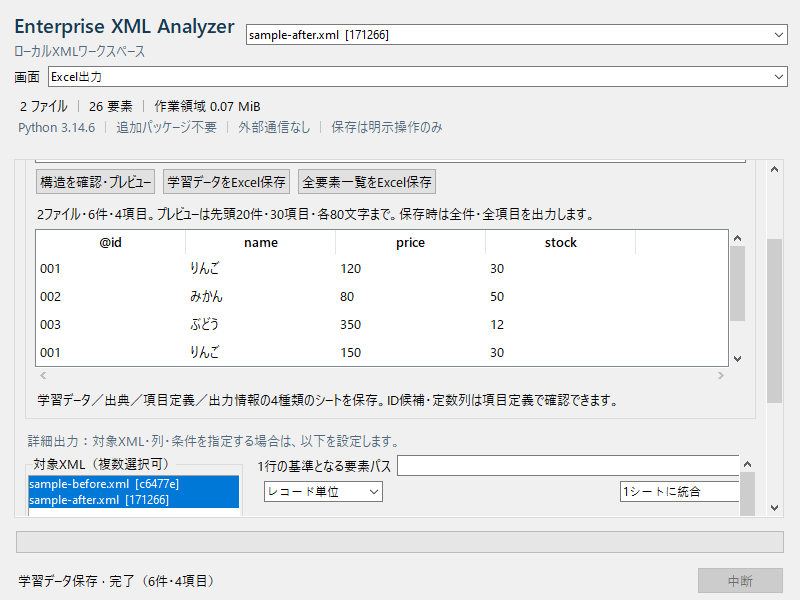
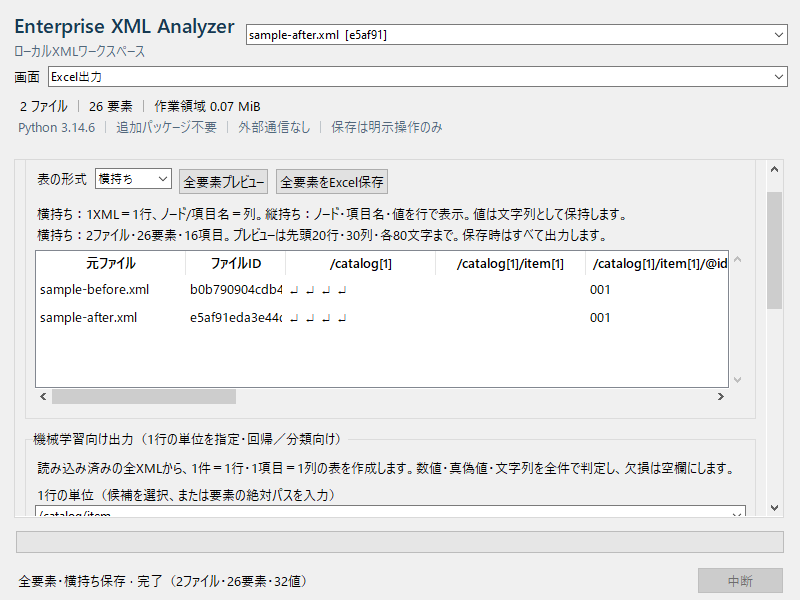
Document both complete XML layouts with Windows screenshots and verification

diff --git a/docs/python-user-guide/procedure-guide.html b/docs/python-user-guide/procedure-guide.html
@@ -15,7 +15,7 @@
   <a class="skip-link" href="#main-content">本文へ移動</a>
   <button id="toc-toggle" class="toc-toggle" type="button" aria-controls="sidebar" aria-expanded="false">☰ 目次</button>
   <aside id="sidebar" class="sidebar" aria-label="目次">
-    <div class="sidebar-header"><p class="eyebrow">Windows Desktop · v2.2</p><p class="sidebar-title">Enterprise XML<br>Analyzer</p><p class="sidebar-subtitle">スクリーンショット付き操作手順書</p></div>
+    <div class="sidebar-header"><p class="eyebrow">Windows Desktop · v2.3</p><p class="sidebar-title">Enterprise XML<br>Analyzer</p><p class="sidebar-subtitle">スクリーンショット付き操作手順書</p></div>
     <nav><ol class="toc-list">
       <li><a href="#overview">01 目的と対象</a></li><li><a href="#prepare">02 展開したフォルダの確認</a></li><li><a href="#workflow">03 全体の流れ・練習用XML</a></li><li><a href="#launch">04 アプリを起動する</a></li><li><a href="#load">05 XMLを読み込む</a></li><li><a href="#tree">06 構造・検索を確認する</a></li><li><a href="#graph">07 グラフで見る</a></li><li><a href="#compare">08 2つのXMLを比較する</a></li><li><a href="#export">09 Excelへ出力する</a></li><li><a href="#save">10 設定と作業を保存・終了する</a></li><li><a href="#verification">11 完了確認</a></li><li><a href="#troubleshooting">12 困ったとき</a></li>
     </ol></nav>
@@ -23,11 +23,11 @@
   </aside>
   <div id="sidebar-overlay" class="sidebar-overlay" aria-hidden="true"></div>
   <main id="main-content" class="main-content">
-    <header class="hero"><div class="hero-content"><p class="eyebrow">User Guide · Python 3.14.6 Bundled</p><h1>Enterprise XML Analyzer<br><span>Windows版 操作手順書</span></h1><p class="hero-lead">ZIPを展開したところから、XMLの確認・比較・Excel保存まで。画面と同じ練習用データを使って、一通りの操作を試せます。</p><div class="hero-badges"><span>対象: Windows x64配布版</span><span>Pythonの追加インストール不要</span><span>更新: 2026/10/27</span></div></div></header>
+    <header class="hero"><div class="hero-content"><p class="eyebrow">User Guide · Python 3.14.6 Bundled</p><h1>Enterprise XML Analyzer<br><span>Windows版 操作手順書</span></h1><p class="hero-lead">ZIPを展開したところから、XMLの確認・比較・Excel保存まで。画面と同じ練習用データを使って、一通りの操作を試せます。</p><div class="hero-badges"><span>対象: Windows x64配布版</span><span>Pythonの追加インストール不要</span><span>更新: 2026/10/28</span></div></div></header>
 
     <section id="overview" class="content-section"><div class="section-heading"><span class="section-number">01</span><div><p class="section-kicker">Overview</p><h2>目的と対象</h2></div></div>
       <p>このアプリは、XMLファイルの中身を階層やグラフで確認し、2つのXMLの違いを調べ、必要な項目をExcel・CSVへ取り出すためのデスクトップアプリです。XML原本を直接編集する機能はありません。</p>
-      <div class="card-grid three-columns"><article class="feature-card"><span class="card-label">見る</span><h3>構造・値・関連を確認</h3><p>ツリー、検索、グラフから必要な要素を探します。</p></article><article class="feature-card"><span class="card-label">比べる</span><h3>変更前後の違いを確認</h3><p>構造・値・完全比較を選び、変更箇所へ移動します。</p></article><article class="feature-card"><span class="card-label">取り出す</span><h3>必要な項目をExcelへ</h3><p>1行の単位を選び、列や型を設定して保存します。</p></article></div>
+      <div class="card-grid three-columns"><article class="feature-card"><span class="card-label">見る</span><h3>構造・値・関連を確認</h3><p>ツリー、検索、グラフから必要な要素を探します。</p></article><article class="feature-card"><span class="card-label">比べる</span><h3>変更前後の違いを確認</h3><p>構造・値・完全比較を選び、変更箇所へ移動します。</p></article><article class="feature-card"><span class="card-label">取り出す</span><h3>すべての項目をExcelへ</h3><p>縦持ち・横持ちを選び、全要素と属性を保存します。</p></article></div>
       <p class="small-note">画面はWindows Server 2022 x64・Python 3.14.6・Tk 8.6.15でアプリを実行して撮影しました。Windows 11／Server 2019は想定対象ですが、会社環境での受入確認は未実施です。画面の配色や文字の大きさはPCの設定で変わります。画像をクリックすると拡大できます。</p>
     </section>
 
@@ -45,7 +45,7 @@
     </section>
 
     <section id="workflow" class="content-section"><div class="section-heading"><span class="section-number">03</span><div><p class="section-kicker">Workflow</p><h2>全体の流れ・練習用XML</h2></div></div>
-      <div class="workflow"><div class="workflow-step"><span>1</span><strong>起動</strong><small>EXEを開く</small></div><div class="workflow-arrow" aria-hidden="true">→</div><div class="workflow-step"><span>2</span><strong>読込</strong><small>XMLを選ぶ</small></div><div class="workflow-arrow" aria-hidden="true">→</div><div class="workflow-step"><span>3</span><strong>確認・比較</strong><small>構造や差分を見る</small></div><div class="workflow-arrow" aria-hidden="true">→</div><div class="workflow-step"><span>4</span><strong>Excel保存</strong><small>列を選んで出力</small></div><div class="workflow-arrow" aria-hidden="true">→</div><div class="workflow-step"><span>5</span><strong>終了</strong><small>必要な作業を保存</small></div></div>
+      <div class="workflow"><div class="workflow-step"><span>1</span><strong>起動</strong><small>EXEを開く</small></div><div class="workflow-arrow" aria-hidden="true">→</div><div class="workflow-step"><span>2</span><strong>読込</strong><small>XMLを選ぶ</small></div><div class="workflow-arrow" aria-hidden="true">→</div><div class="workflow-step"><span>3</span><strong>確認・比較</strong><small>構造や差分を見る</small></div><div class="workflow-arrow" aria-hidden="true">→</div><div class="workflow-step"><span>4</span><strong>Excel保存</strong><small>縦持ち・横持ちを選ぶ</small></div><div class="workflow-arrow" aria-hidden="true">→</div><div class="workflow-step"><span>5</span><strong>終了</strong><small>必要な作業を保存</small></div></div>
       <p>練習用XMLは架空の商品3件です。次の2ファイルを同じフォルダに保存してください。手元のXMLでも操作できますが、表示される要素名や件数は変わります。</p>
       <div class="download-row"><a class="download-link" href="samples/sample-before.xml" download="sample-before.xml">変更前XMLを保存</a><a class="download-link" href="samples/sample-after.xml" download="sample-after.xml">変更後XMLを保存</a></div>
       <p>ブラウザでXMLが開いた場合は、リンクを右クリックして「名前を付けてリンク先を保存」などを選び、拡張子を <code>.xml</code> にします。</p>
@@ -56,7 +56,7 @@
       <ol class="numbered-steps"><li><div><strong><code>EnterpriseXmlAnalyzer.exe</code> をダブルクリックします。</strong><p>展開したフォルダ内のEXEを実行します。通常、管理者として実行する必要はありません。</p></div></li><li><div><strong>タイトルと「XML読込」画面を確認します。</strong><p>「XML読込」「構造ビュー」「グラフ」「XML比較」「Excel出力」「統計」「設定」の7画面があります。ウインドウは最小640×480まで変更でき、幅が狭い場合は上部の「画面」で切り替えます。ボタンは折り返し、縦横のスクロールで操作できます。処理の状況と「中断」ボタンは画面下部にあります。</p></div></li></ol>
       <figure class="screenshot"><button class="shot-zoom" type="button" aria-label="起動直後の画面を拡大"><img src="images/01-start.png" alt="起動直後。XML読込タブにXMLファイルを選択ボタンと空の一覧が表示されている。" width="984" height="688"></button><figcaption>画面1｜起動直後。まず「XMLファイルを選択」を使います。</figcaption></figure>
       <p class="small-note">未署名EXEのためWindowsや会社の管理機能が起動を止める場合があります。会社の実行ルールに従って配布担当者へ確認してください。セキュリティ機能を無効にして実行しないでください。</p>
-      <figure class="screenshot"><button class="shot-zoom" type="button" aria-label="小さなウインドウでの操作画面を拡大"><img src="images/12-resize.png" alt="800×600のウインドウ。上部の画面選択、学習データの保存ボタン、プレビューと縦横のスクロールが表示される。" width="800" height="600" loading="lazy"></button><figcaption>サイズ変更｜幅が狭いときは上部の「画面」で切り替えます。右端の縦スクロールで上へ戻すと1行の単位・目的変数を変更できます。</figcaption></figure>
+      <figure class="screenshot"><button class="shot-zoom" type="button" aria-label="小さなウインドウでの操作画面を拡大"><img src="images/12-resize.png" alt="800×600のウインドウ。上部の画面選択、全要素の保存ボタン、形式選択とプレビューが表示される。" width="800" height="600" loading="lazy"></button><figcaption>サイズ変更｜幅が狭いときは上部の「画面」で切り替えます。簡単出力の形式を選んで保存できます。他の出力方法は右端の縦スクロールで下へ移動します。</figcaption></figure>
     </section>
 
     <section id="load" class="content-section"><div class="section-heading"><span class="section-number">05</span><div><p class="section-kicker">Import</p><h2>XMLを読み込む</h2></div></div>
@@ -87,17 +87,24 @@
       <p class="small-note">分類は「追加・削除・変更・移動・変更なし・曖昧」です。「曖昧」は同じキーの重複などで対応を一意に決められない箇所です。親をまたぐ移動は追加・削除として扱います。「空白を除いて比較」「コメントを含む」などの設定は目的に合わせ、比較条件も記録してください。</p>
     </section>
 
-    <section id="export" class="content-section"><div class="section-heading"><span class="section-number">09</span><div><p class="section-kicker">Excel Export</p><h2>必要な項目をExcelへ出力する</h2></div></div>
-      <h3 id="simple-export">回帰・分類用の表を作る：簡単出力モード</h3>
+    <section id="export" class="content-section"><div class="section-heading"><span class="section-number">09</span><div><p class="section-kicker">Excel Export</p><h2>すべての要素をExcelへ出力する</h2></div></div>
+      <h3 id="simple-export">簡単出力：縦持ち・横持ちを選んで全件保存</h3>
+      <ol class="numbered-steps"><li><div><strong>XMLを読み込み、「Excel出力」を開きます。</strong><p>最上部の「簡単出力モード（すべての要素・属性）」を使います。読み込み済みの全XML・全階層が対象です。選択中のノード、下の機械学習向け設定や詳細出力の条件では絞りません。</p></div></li><li><div><strong>「表の形式」で「横持ち」または「縦持ち」を選びます。</strong><p>横持ちは1XMLファイルが1行で、ノード/項目名が列になります。縦持ちはノード・項目名・値を行で並べる一覧です。読み込み直さず切り替えられます。</p></div></li><li><div><strong>「全要素プレビュー」で確認します。</strong><p>表示は先頭20行・30列・各80文字までですが、保存は全件です。練習用2ファイルは26要素と6属性を含み、横持ちは2行・16項目（元ファイル等を除く）、縦持ちは32行です。</p></div></li><li><div><strong>「全要素をExcel保存」を押し、保存先を指定します。</strong><p>例：横持ちは <code>xml-all-wide.xlsx</code>、縦持ちは <code>xml-all-long.xlsx</code>。画面下部の「全要素・横持ち保存 · 完了」等を確認し、保存先のExcelファイルを開きます。</p></div></li></ol>
+      <div class="table-wrap"><table><caption>同じXMLの値を2つの表にする例（元ファイル等は省略）</caption><thead><tr><th>形式</th><th>ノード・項目の表示</th><th>値</th></tr></thead><tbody><tr><td>横持ち</td><td><code>/測定[1]/温度[1]</code> 列、<code>/測定[1]/圧力[1]</code> 列</td><td>同じXMLの行に「20」「5」をそれぞれ保存</td></tr><tr><td>縦持ち</td><td>ノード <code>/測定[1]</code>、項目名 <code>温度[1]</code> または <code>圧力[1]</code></td><td>温度の行に「20」、圧力の行に「5」を保存</td></tr></tbody></table></div>
+      <figure class="screenshot"><button class="shot-zoom" type="button" aria-label="横持ちの簡単出力画面を拡大"><img src="images/11-simple-export.png" alt="簡単出力の形式が横持ちで、2ファイル・26要素・16項目を確認し、XMLごとの行に全値を保存する。" width="984" height="688" loading="lazy"></button><figcaption>横持ち｜1XML＝1行。「ノード/項目名」の列を横へ展開します。表の下の横スクロールで続きの列を確認できます。</figcaption></figure>
+      <figure class="screenshot"><button class="shot-zoom" type="button" aria-label="縦持ちの簡単出力画面を拡大"><img src="images/13-long-export.png" alt="簡単出力の形式が縦持ちで、元ファイル・ノード・項目名・値・種類を行に並べたプレビュー。" width="984" height="688" loading="lazy"></button><figcaption>縦持ち｜親要素の直接テキスト、属性、子の値をそれぞれ行にします。親にも直接テキストを出力し、空要素の値は空欄です。</figcaption></figure>
+      <p>全階層の親・空要素・繰り返しを含み、属性は <code>@属性名</code>、繰り返しは <code>[1]</code>、<code>[2]</code> で区別します。同じ名前でも名前空間のURIが異なる項目は別に保存します。親の値は直接テキストで、子の値は子の項目に保存します。XMLとして解析した値を使い、コメント・処理命令・名前空間宣言そのものは値に含みません。</p>
+      <p>簡単出力の値は数値も文字列として保持し、先頭ゼロ・大きな数・空白・数式のように見える文字列を残します。横持ちは「項目一覧・出典・出力情報」、縦持ちは「出典・出力情報」も保存します。項目一覧で完全なノード・項目名と、データシート・Excel列の対応を確認できます。</p>
+      <p class="small-note">横持ちは元ファイル等2列に加えて16382項目ごとに別シートへ分けます。長い値は32767 UTF-16単位で継続列／継続行へ分割し、値分割番号の順に連結できます。長い列名は項目番号に短縮し、完全な名前は項目一覧へ記載します。長いノード・パスは表示分割番号順に復元できます。全シート合計200万データ行・512シートが上限で、超過・中断・失敗時は既存の保存先を保持します。</p>
+      <h3>回帰・分類用に1行の単位を指定する場合：機械学習向け出力</h3>
+      <p>全要素表とは別に、商品1件などの繰り返し要素を1行にする表も作れます。「簡単出力」の下へスクロールし、「機械学習向け出力」を使います。この方式は指定した要素の内側が対象です。</p>
       <ol class="numbered-steps"><li><div><strong>XMLを読み込み、「Excel出力」を開きます。</strong><p>一覧の全XMLが対象です。詳細出力の列・条件・対象選択とは独立しています。</p></div></li><li><div><strong>「構造を確認・プレビュー」を押し、1行の単位を確認します。</strong><p>全XMLで共通する最も浅い繰り返し要素を自動候補にします。練習用は <code>/catalog/item</code> で、商品1件が1行です。候補を選ぶか要素の絶対パスを入力して変更できます。「XMLファイル単位」なら1ファイルが1行です。変更後は再プレビューしてください。</p></div></li><li><div><strong>必要なら「目的変数」を選びます。</strong><p>予測したい項目です。この例で単価の回帰用表を作る場合は <code>price</code> を選びます。分類では分類ラベルの項目を選びます。未指定でも保存でき、あとで学習時に決められます。</p></div></li><li><div><strong>「学習データをExcel保存」を押し、保存先を選びます。</strong><p>練習用XML2ファイルでは6件・4項目（<code>@id</code>、<code>name</code>、<code>price</code>、<code>stock</code>）です。画面下部の「学習データ保存 · 完了」を確認します。</p></div></li></ol>
-      <div class="table-wrap"><table><caption>簡単出力の4種類のシート</caption><thead><tr><th>シート</th><th>内容</th></tr></thead><tbody><tr><td>学習データ</td><td>1件1行・1項目1列。選んだ要素配下の値と属性。数値・真偽値は対応するセル型、欠損は空欄です。</td></tr><tr><td>出典</td><td>元ファイルとデータ連番の対応。ファイル名や内部IDを学習列へ自動追加しません。</td></tr><tr><td>項目定義</td><td>全件で判定した型、目的変数、ID候補、欠損数、定数列候補、XML相対パス。</td></tr><tr><td>出力情報</td><td>1行の単位、件数、型と欠損の扱い、学習前の確認事項。</td></tr></tbody></table></div>
+      <div class="table-wrap"><table><caption>機械学習向け出力の4種類のシート</caption><thead><tr><th>シート</th><th>内容</th></tr></thead><tbody><tr><td>学習データ</td><td>1件1行・1項目1列。選んだ要素配下の値と属性。数値・真偽値は対応するセル型、欠損は空欄です。</td></tr><tr><td>出典</td><td>元ファイルとデータ連番の対応。ファイル名や内部IDを学習列へ自動追加しません。</td></tr><tr><td>項目定義</td><td>全件で判定した型、目的変数、ID候補、欠損数、定数列候補、XML相対パス。</td></tr><tr><td>出力情報</td><td>1行の単位、件数、型と欠損の扱い、学習前の確認事項。</td></tr></tbody></table></div>
       <p>先頭ゼロ、ID候補、15桁を超える数値は文字列で保持します。数値と文字列が混在する列も文字列です。空文字・空白のみ・存在しない項目は空欄になります。子要素の繰り返しは <code>value[1]</code>、<code>value[2]</code> の別列です。候補は構造から選ぶため、1行の意味は利用者が確認してください。</p>
       <p class="small-note">プレビューは全件の型確認後に先頭20件・30項目・各80文字だけ表示します。保存は全件・全項目です。1件1024列・4Mi UTF-16単位、1セル32767 UTF-16単位が上限で、超過時は1行を分割せず保存を中止します。選んだ要素の外側の値が必要なら、行の単位を親へ変更してください。</p>
-      <figure class="screenshot"><button class="shot-zoom" type="button" aria-label="簡単出力モードの画面を拡大"><img src="images/11-simple-export.png" alt="Excel出力の簡単出力モード。1行の単位と目的変数を指定し、学習データを保存する。" width="984" height="688" loading="lazy"></button><figcaption>簡単出力｜商品1件を1行とし、2ファイルから6件・4項目を保存します。</figcaption></figure>
+      <figure class="screenshot"><button class="shot-zoom" type="button" aria-label="機械学習向け出力の画面を拡大"><img src="images/14-learning-export.png" alt="機械学習向け出力の商品データ4列のプレビューと、学習データをExcel保存するボタン。" width="984" height="688" loading="lazy"></button><figcaption>機械学習向け出力｜商品1件を1行とし、2ファイルから6件・4項目を保存します。</figcaption></figure>
       <div class="callout"><p>このアプリはモデル学習・欠損補完・カテゴリ符号化を行いません。ID・定数列・目的変数・欠損を確認し、同じ対象や将来の情報が評価用データへ混ざらないよう分割してください。練習用の変更前後の商品は同一対象なので、機械的にランダム分割する例には使いません。</p></div>
-      <h3>XMLの全要素を一覧で取り出す場合</h3>
-      <p>「全要素一覧をExcel保存」を使います。親・空要素を含む1要素1行・11列（元ファイル、ファイルID、要素番号、親要素番号、階層、要素名、名前空間、要素パス、属性JSON、直接テキスト、分割番号）の一覧です。練習用2ファイルでは26行になります。こちらだけは長い値を継続行へ分割し、同じファイルID・要素番号の各列を分割番号順に連結できます。学習用の行単位とは異なります。</p>
-      <p class="small-note">各方式とも1シート1048575データ行で自動分割し、補助シートを含む合計200万行が安全上限です。超過・中断・失敗時は既存の保存先を保持します。</p>
+      <p class="small-note">従来の1要素1行・11列の一覧は「従来の要素一覧を保存（属性をJSONで表示）」で利用できます。練習用2ファイルは26行で、属性はJSONの1欄にまとめます。</p>
       <h3>必要な列を選びたい場合：詳細出力</h3>
       <h3>① 「1行」の単位を選ぶ</h3><ol class="numbered-steps"><li><div><strong>「構造ビュー」へ戻り、右上を変更前XMLにします。</strong><p>検索後は <code>price</code> などが選ばれていることがあります。左のツリーから商品1件を表す <code>item</code> を選び直します。</p></div></li><li><div><strong>「この要素を出力の1行にする」を押します。</strong><p>「Excel出力」へ移動し、「1行の基準となる要素パス」が <code>/catalog/item</code> になります。1つの <code>item</code> がExcelの1行になるため、変更前XMLから3行を出力します。</p></div></li><li><div><strong>左上「対象XML」で変更前だけを選びます。</strong><p>初期状態では複数のXMLが選ばれていることがあります。この練習では <code>sample-before.xml</code> を通常クリックして1つだけ選択します。複数選択はCtrlキーで操作します。</p></div></li></ol>
       <h3>② 列名と型を整える</h3><p>候補の列は自動で作られます。表の行をクリックして、その下の「列名」と型を変更し、<strong>必ず「列へ反映」</strong>を押します。次の4列を順に設定してください。編集欄が見えない場合は、右端の縦スクロールバーで下へ移動します。</p>
@@ -121,8 +128,8 @@
     </section>
 
     <section id="verification" class="content-section"><div class="section-heading"><span class="section-number">11</span><div><p class="section-kicker">Verification</p><h2>完了確認</h2></div></div>
-      <p>練習が終わったら、次の項目を確認してください。チェック状態はこのページを再読込するとリセットされます。</p><div class="checklist-grid"><article><h3>画面・結果</h3><label><input type="checkbox"> EXEから起動でき、XMLを2ファイル読み込めた</label><label><input type="checkbox"> 構造ビューでitemとidを確認できた</label><label><input type="checkbox"> 比較で単価と在庫数の2箇所の変更を確認できた</label><label><input type="checkbox"> 簡単出力では6件・4項目、詳細出力では変更前の3行を確認できた</label></article><article><h3>保存・終了</h3><label><input type="checkbox"> XLSXを保存し、簡単出力の4種類のシート、または詳細出力の3行を実際に開いて確認した</label><label><input type="checkbox"> 商品IDの001など先頭ゼロが残っている</label><label><input type="checkbox"> 必要な設定JSON・作業ファイルを保存した</label><label><input type="checkbox"> アプリを通常の手順で終了した</label></article></div>
-      <p class="small-note">アプリはWindows Server 2022で機能・GUIテスト52件と同梱EXEの起動を検証済みです。Windows版Microsoft Excelそのものでの修復警告・再保存は未確認のため、利用環境で必ず出力を確認してください。</p>
+      <p>練習が終わったら、次の項目を確認してください。チェック状態はこのページを再読込するとリセットされます。</p><div class="checklist-grid"><article><h3>画面・結果</h3><label><input type="checkbox"> EXEから起動でき、XMLを2ファイル読み込めた</label><label><input type="checkbox"> 構造ビューでitemとidを確認できた</label><label><input type="checkbox"> 比較で単価と在庫数の2箇所の変更を確認できた</label><label><input type="checkbox"> 簡単出力で横持ち2行・16項目、縦持ち32行を確認できた</label></article><article><h3>保存・終了</h3><label><input type="checkbox"> XLSXを保存し、簡単出力の横持ち4シート・縦持ち3シートを実際に開いて確認した</label><label><input type="checkbox"> 商品IDの001など先頭ゼロが残っている</label><label><input type="checkbox"> 必要な設定JSON・作業ファイルを保存した</label><label><input type="checkbox"> アプリを通常の手順で終了した</label></article></div>
+      <p class="small-note">アプリはWindows Server 2022で機能・GUIテスト60件と同梱EXEの起動を検証済みです。Windows版Microsoft Excelそのものでの修復警告・再保存は未確認のため、利用環境で必ず出力を確認してください。</p>
     </section>
 
     <section id="troubleshooting" class="content-section"><div class="section-heading"><span class="section-number">12</span><div><p class="section-kicker">Troubleshooting</p><h2>困ったとき</h2></div></div>
@@ -132,7 +139,7 @@
         <details><summary>Windowsの警告や会社の管理機能で実行が止まる</summary><div><p>EXEは未署名です。セキュリティ機能を無効にせず、会社の承認手順に従ってください。管理者権限での実行を標準手順にはしません。</p></div></details>
         <details><summary>XMLを読み込めない／XML_PARSE・DTD・LIMITなどが表示される</summary><div><p>XMLの構文・文字コード・ファイルの読み取り権限を確認します。UTF-8／UTF-16に対応します。DTD・外部実体を含むXMLは受け付けません。深さ256や単一テキスト1Mi文字等の上限に達した場合は、元データの担当者へ相談してください。上限を避けるための無断編集はしないでください。</p></div></details>
         <details><summary>比較できない／変更が想定と違う／「曖昧」が出る</summary><div><p>AとBに異なるファイルを選んでいるか確認します。初回は「完全比較」で試します。キー属性の重複や不足、空白・順序・コメントのオプションでも結果が変わります。画面の設定と対象ファイル名を控え、実際の要素と詳細を確認してください。</p></div></details>
-        <details><summary>Excelの行が多すぎる／少ない／空欄になる</summary><div><p>簡単出力は選んだ繰り返し要素が1行で、練習用XML2つでは商品6件です。「全要素一覧」は26行です。1行の単位と全XMLの構造を確認し、変更したら再プレビューしてください。</p><p>対象XMLの選択、1行の基準パス、列の相対パス、出力ON/OFF、抽出条件を確認します。練習では変更前だけを選び、<code>/catalog/item</code> を基準にします。パスや列設定は対象XMLの構造に合っている必要があります。</p></div></details>
+        <details><summary>Excelの行が多すぎる／少ない／空欄になる</summary><div><p>簡単出力は全要素・属性が対象で、練習用2ファイルでは横持ち2行・16項目、縦持ち32行です。値のない要素は空欄です。改行・空白だけの値も保持します。機械学習向け出力は商品6件、従来の要素一覧は26行です。選んだ形式を確認し、変更後に再プレビューしてください。</p><p>詳細出力の場合は、対象XMLの選択、1行の基準パス、列の相対パス、出力ON/OFF、抽出条件を確認します。練習では変更前だけを選び、<code>/catalog/item</code> を基準にします。パスや列設定は対象XMLの構造に合っている必要があります。</p></div></details>
         <details><summary>列を編集したのに結果へ反映されない</summary><div><p>表の該当行を選んで編集し、「列へ反映」を押してから再度プレビューします。プレビューを実行する前の表示は自動更新されません。</p></div></details>
         <details><summary>「XLSX保存」など下のボタンが見えない</summary><div><p>各画面の右端の縦スクロールで下へ移動します。詳細出力の中には別の縦横スクロールもあります。画面幅が狭い場合は上部の「画面」で切り替えます。</p></div></details>
         <details><summary>保存できない／disk I/O error／処理が遅い</summary><div><p>空き容量、保存先への書き込み権限、出力ファイルをExcelで開いたままにしていないかを確認します。大きなXMLは一時作業領域も使用します。共有フォルダで失敗する場合は、許可されたローカルフォルダへの保存を試し、会社の担当者へ権限を確認してください。</p></div></details>
@@ -141,7 +148,7 @@
       <div class="callout info"><div class="callout-icon" aria-hidden="true">i</div><div><h3>解決しない場合</h3><p>配布担当者へ、Windowsの種類、アプリの版、対象ファイル名、操作、表示メッセージを伝えてください。「設定」→「技術ログをJSON保存」も利用できます。XMLの実データや作業ファイルを送る場合は、送付先と内容を会社のルールに従って確認してください。</p></div></div>
       <p class="small-note">配布担当者向け: <a href="https://github.com/rsakamoto-0824/enterprise-xml-analyzer/actions">GitHubのビルド一覧</a>はアクセス権を持つ利用者のみ閲覧できます。Actionsの配布物は保存期限があるため、期限切れの場合は担当者へ再配布を依頼してください。</p>
     </section>
-    <footer class="page-footer"><p>Enterprise XML Analyzer · Windows版ユーザー手順書 · v2.2</p><p>更新: 2026/10/27 · 画面は架空の練習用データを使用</p></footer>
+    <footer class="page-footer"><p>Enterprise XML Analyzer · Windows版ユーザー手順書 · v2.3</p><p>更新: 2026/10/28 · 画面は架空の練習用データを使用</p></footer>
   </main>
   <button id="back-to-top" class="back-to-top" type="button" aria-label="ページ上部へ戻る"><span aria-hidden="true">↑</span> トップへ戻る</button>
   <dialog id="image-viewer" aria-labelledby="image-viewer-title"><div class="viewer-bar"><p id="image-viewer-title">画面の拡大表示</p><button id="close-viewer" type="button">閉じる（Esc）</button></div><img id="viewer-image" alt=""><p class="viewer-note">横幅が足りない場合は画像の下の横スクロールで確認できます。</p></dialog>

diff --git a/docs/python-design.md b/docs/python-design.md
@@ -10,6 +10,7 @@
 - `storage.py`: SQLiteのファイル・親・パス索引、作業ファイルのbackup API保存。
 - `comparison.py`: 親スコープ内の一意キー、ハッシュ、一意名、兄弟順による段階対応。曖昧な繰り返しを明示。
 - `extraction.py`: レコード解決、パス・列・型・繰り返し・条件、100行プレビュー、旧JSON移行。
+- `table_export.py`: 全XML・全階層を縦持ち／横持ちで保存する簡単出力。属性・親・空要素・繰り返し・全直接テキストを保持。横持ちは一時SQLiteで項目を統合し、16382項目ごとに分割。
 - `simple_export.py`: 詳細設定を使わず全XMLの全要素を一覧化。親・空要素を含む。パスは深さ分のスタックで構築し、直下のテキスト・CDATAをDBから逐次取得。長い値をUTF-16単位で継続行へ分割。
 - `writers.py`: OOXMLのシートXMLを一時ファイルへ逐次書き込み、ZIP化するXLSX。CSVも逐次保存。
 - `visualization.py`: Tk Canvasによる部分グラフ、SVG、Windows GDIによる表示範囲PNG、XML断片。
@@ -61,3 +62,16 @@ XML文字列はTkの文字表示へ渡し、HTMLとして実行しません。DT
 `layout.py` のFlowFrameが要求幅に応じてツールバーを折り返し、ScrollablePageが各画面の縦スクロールを管理します。幅900未満はタブを上部の選択欄に切り替え、640×480を最小寸法とします。表の縦横スクロール・詳細設定の横スクロールは独立します。Tkオブジェクトの循環参照は処理開始前にUIスレッドで回収し、バックグラウンド処理でTkを解放しないようにします。
 
 128文字を超える列名は `項目_番号` に短縮し、既存名との衝突時は番号と連番を付けて一意にします。短縮前のXML相対パスは項目定義シートに保持します。
+
+
+## 全要素の縦持ち・横持ち（v2.3.0）
+
+簡単出力の標準を全要素の表に変更しました。`table_export.py` はXMLファイル・要素の文書順に走査し、直接テキストと各属性を別の項目として生成します。親・空要素にも空欄の項目を作り、すべての階層と同名兄弟の出現番号を保持します。名前空間は保存済みのURI展開パスを使い、接頭辞の変更で同一URIの列を分けません。宣言、コメント、処理命令は値の出力対象ではありません。XMLとして解析後の値を保存するため、改行等はXMLの正規化に従います。
+
+縦持ちは「元ファイル・ファイルID・要素番号・ノード・項目名・値・種類・値分割番号・表示分割番号・要素パス」の10列です。属性はノードに属する `@項目名` とし、要素は親ノードに属する項目として出力します。横持ちは1XML＝1行で、列は全ファイルの全項目の和集合です。ルートからのパスと兄弟番号で区別し、対応する項目がないXMLは空欄です。繰り返し番号は兄弟順で、意味的な対象の対応づけはしません。
+
+全XML値を文字列として保存し、先頭ゼロ・大きな数・空白・数式文字列を保持します。セル上限32767 UTF-16単位を超える値は分割番号順に復元できます。横持ちは16382項目＋元ファイル等2列ごとにデータシートを分け、「項目一覧」に完全なパス・シート・Excel列・出現XML数を保存します。128文字超の見出しは項目番号に短縮し、長いノード名・パスも補助行へ分割して保持します。全シート合計200万行・512シートを超えた場合は打ち切ったファイルを保存せず、エラーにします。
+
+横持ちの項目・値は一時SQLiteに保存し、メモリへ全値や全レコードを積みません。元の作業DBは変更せず、終了・失敗・中断時に派生DBを削除します。writerはセルを順に書き出し、横に広い1行全体を巨大な文字列にしません。縦持ちはそのまま逐次書き出します。GUIプレビューは20行・30列・各80文字までで、保存対象の制限ではありません。
+
+機械学習向け出力は別のカードに残し、1行の単位を指定する既存の型推定・目的変数機能を維持します。簡単出力にはそのパス指定や詳細抽出条件を適用しません。

diff --git a/docs/python-test-report.md b/docs/python-test-report.md
@@ -112,3 +112,23 @@ CIには既存のupload-artifact ActionについてNode.js 20非推奨、punycod
 
 
 長い項目名の短縮結果がXML内の既存名と一致するケースも追加検証しています。列名を連番で確定し、同じ名前を繰り返して処理が終わらなくなることを防ぎます。52件の検証にこのケースを含めています。修正（34bf820）を含むWindows機能・同梱EXE・大容量試験の結果は[Windows検証](https://github.com/rsakamoto-0824/enterprise-xml-analyzer/actions/runs/40519288132)に記録されます。
+
+
+## v2.3.0 全要素の縦持ち・横持ち
+
+2026年10月28日追加。簡単出力は全XML・全階層の要素と属性を対象にし、縦持ちと横持ちを選択できます。機械学習向けの1行指定は別機能として維持します。
+
+Mac / CPython 3.14.6 / Tk 9.0.4で60件の自動検証を実行し、59件成功・Windows専用ドロップ1件をスキップしました。親・空要素・直接テキスト・全属性・全繰り返し、異なるルートのXMLを含む列の和集合、名前空間の区別と接頭辞変更、数式文字列、長い絵文字混在値と4万文字のURI、16401項目の列分割と末尾値、空入力・中断・上限超過時の既存ファイル保全を検証しています。GUIで形式を切り替えて保存し、選択ノードや詳細設定による絞り込みがないことも確認しました。
+
+外部通信を禁止した自己検証では、2XML・10要素・4属性について、横持ち2行・7項目、縦持ち14行の保存が成功しました。既存の機械学習向け4件・2項目・4シート、従来の全要素一覧10行も成功しています。
+
+合成XMLの40001要素・20000属性（60001項目）を出力する性能試験を追加しました。横持ちではデータ4シート＋項目一覧・出典・出力情報、縦持ちでは60001行になります。
+
+独立したopenpyxlで代表例の横持ち4シート・2行13列、縦持ち3シート・11行10列を再読込しました。001・20桁のID・繰り返し20/30・空白・数式文字列を文字列として保持し、ZIP/OOXML/リレーション/コンテンツタイプ、固定行・フィルターを確認しています。数式・セルエラー・外部リンク・VBA・名前付き範囲・テーブル・グラフは0件です。元のXLSXを上書きせず、LibreOfficeで全7シートをPDF化し、全14ページを画像で確認しました。横に広い表は印刷時に複数ページに分かれます。記録は `validation/python-table-export-validation.json` です。Microsoft Excel本体での再オープンと会社環境での受入確認は未実施です。
+
+
+[Windows Server 2022 / CPython 3.14.6の検証（f1818eb）](https://github.com/rsakamoto-0824/enterprise-xml-analyzer/actions/runs/40672635728)で60件すべて・同梱EXE・1/10/100/500MiB・1001001要素・10万件の学習表・新しい全要素表の試験が成功しました。40001要素・20000属性の横持ち60001項目は4.34秒、縦持ち60001行は2.99秒で保存できました。XML読込2.73秒は別測定です。測定プロセス全体の累積Peak Working Setは65,024,000バイト（約62.0MiB）で、出力単独のメモリ量ではありません。共有CIでの合成データ単回測定であり、実データの時間・上限を保証しません。`validation/python-table-windows-performance.json` と `validation/python-table-windows-selftest.json` に記録しています。
+
+[表示幅調整後のWindows検証（dc7769e）](https://github.com/rsakamoto-0824/enterprise-xml-analyzer/actions/runs/40673537446)でも60件・同梱EXEの検証が成功し、14枚の実画面を手順書へ反映しました。縦持ちプレビューは元ファイル・ノード・項目名・値を見やすく並べ、内部IDは保存先に保持します。
+
+HTML手順書を1440×1000・1280×900のChromiumで表示し、14画像・章目次12箇所・画像拡大とEsc・練習用XMLの保存・横方向のはみ出しがないことを確認しました。HTML単体版でも14画像を埋め込み、外部CSS・JavaScript・画像への依存なしで表示できることを確認しています。

diff --git a/README.md b/README.md
@@ -18,7 +18,22 @@ py -3.14 run.py
 
 ## 使い方
 
-### 簡単出力モード（回帰・分類向け、v2.2）
+### 簡単出力モード（全要素・縦持ち／横持ち、v2.3）
+
+XMLを読み込み、「Excel出力」の最上部で **横持ち** または **縦持ち** を選びます。**全要素プレビュー** で確認し、**全要素をExcel保存** を押します。読み込み済みの全XML・全階層が対象です。選択中のノード、機械学習用の1行の単位、詳細出力の列・条件・XML選択では絞り込みません。
+
+| 形式 | 表の形 | 補助シート |
+|---|---|---|
+| 横持ち | 1XMLファイル＝1行。「ノード/項目名」を列にし、すべての値を横へ展開 | 項目一覧・出典・出力情報 |
+| 縦持ち | 元ファイル・ノード・項目名・値・種類などを並べ、要素の直接テキストと属性をそれぞれ1行に出力 | 出典・出力情報 |
+
+親要素・空要素にも欄を作り、繰り返しは `[1]`、`[2]` などで全出現を保持します。属性は `@属性名`、名前空間はURI展開名で区別します。数値も含めてXML値は文字列のまま保存し、先頭ゼロ・大きな数・空白・数式に似た文字列を保持します。親の値は直接テキストで、子の値は子の項目へ保存します。
+
+横持ちは元ファイル・ファイルIDの2列に加えて16382項目ごとにシートを分けます。長い列名は短縮し、完全なノード・項目名・パスを「項目一覧」に保存します。1セル32767 UTF-16単位を超える値は、横持ちでは継続列、縦持ちでは継続行へ分割します。長いパスも表示分割番号順に復元できます。横持ちの欠落項目は空欄です。プレビューは先頭20行・30列・各80文字に限りますが、保存は全件です。全シート合計200万データ行・512シートの安全上限を超えた場合や中断・失敗時は、保存を中止して既存ファイルを保持します。
+
+練習用XML2ファイルでは26要素・6属性を含め、横持ち2行・16項目（元ファイル等を除く）、縦持ち32行です。
+
+### 機械学習向け出力（1行の単位を指定）
 
 XMLを読み込み、「Excel出力」で **構造を確認・プレビュー** を押します。全XMLで共通する最も浅い繰り返し要素を自動候補とし、利用者が1行の単位を変更できます。必要なら予測したい項目を「目的変数」に選び、**学習データをExcel保存** を押します。XMLファイル単位（1ファイル＝1行）にも切り替えられます。
 
@@ -31,7 +46,7 @@ XMLを読み込み、「Excel出力」で **構造を確認・プレビュー** 
 
 選んだ要素の外側の値は含みません。必要なら行の単位を親へ変更します。1件1024列・文字量4Mi UTF-16単位、1セル32767 UTF-16単位が上限です。超過時は行を分割せず保存を中止します。シートは1048575データ行で分かれ、補助シートを含む合計200万行が安全上限です。
 
-従来の親・空要素を含む一覧は、**全要素一覧をExcel保存** で利用できます。こちらは1要素1行・11列で、長い値を継続行へ分割します。両モードとも読み込み済みの全XMLが対象で、詳細出力の列・条件・対象選択を変更しません。
+従来の親・空要素を含む一覧は、**従来の要素一覧を保存（属性をJSONで表示）** で利用できます。こちらは1要素1行・11列で、長い値を継続行へ分割します。簡単出力・機械学習向け出力・従来の要素一覧は読み込み済みの全XMLが対象で、詳細出力の列・条件・対象選択を変更しません。
 
 ### ウインドウのサイズ変更
 

diff --git a/docs/python-windows.md b/docs/python-windows.md
@@ -6,9 +6,11 @@
 
 ## Windows配布版（推奨）
 
-簡単出力は回帰・分類用の1件1行・1項目1列の表を作成します。「Excel出力」で「構造を確認・プレビュー」を押し、繰り返し要素の自動候補を確認・変更します。必要なら目的変数を選び、「学習データをExcel保存」で保存します。練習用XML2ファイルでは `/catalog/item` を1行とし、6件・4項目を出力します。数値・真偽値・文字列を全件で判定し、欠損は空欄、ID候補・先頭ゼロは文字列です。出典・項目定義・出力情報を別シートに保存します。詳しい制限はREADMEを参照してください。
+簡単出力は、読み込み済みの全XML・全階層の要素と属性を保存します。「Excel出力」の最上部で「横持ち」または「縦持ち」を選び、「全要素プレビュー」→「全要素をExcel保存」で保存します。横持ちは1XML＝1行・ノード/項目名＝列、縦持ちはノード・項目名・値の一覧です。繰り返し・親・空要素を含み、選択中のノードや詳細出力の設定では絞りません。練習用2ファイルでは横持ち2行・16項目、縦持ち32行です。全値を文字列として保持し、Excelのセル・列上限では継続行・列・別シートへ分割します。完全な項目名は「項目一覧」で確認できます。
 
-親・空要素を含む従来の11列の一覧は「全要素一覧をExcel保存」から利用できます。全要素一覧だけは長い値を継続行へ分割します。学習データは行を分割せず、セル上限超過時は保存を中止します。どちらも詳細出力の設定と独立し、読み込み済みの全XMLが対象です。
+回帰・分類向けに1件1行の表を作る場合は、その下の「機械学習向け出力」を使います。「構造を確認・プレビュー」で繰り返し要素の候補を確認・変更し、必要なら目的変数を選び、「学習データをExcel保存」で保存します。練習用XML2ファイルでは `/catalog/item` を1行とし、6件・4項目を出力します。型を全件で判定し、数値・真偽値は対応するセル型、欠損は空欄です。選んだ要素の外側は対象に含みません。
+
+従来の11列の一覧は「従来の要素一覧を保存（属性をJSONで表示）」から利用できます。どの方式も詳細出力の設定から独立しています。機械学習向け出力は1件を分割せず、セル上限超過時は保存を中止します。詳しい仕様と制限はREADMEを参照してください。
 
 最小640×480までウインドウを縮小できます。幅900未満では上部の「画面」でタブを切り替えます。ボタンは折り返し、各画面の縦スクロール、表と詳細設定の横スクロールで操作します。
 

diff --git a/issues.md b/issues.md
@@ -20,3 +20,6 @@
 - [x] 640×480以上のリサイズ、折り返し、狭い幅での画面選択とスクロール
 - [x] 繰り返し要素を自動候補・変更可能な1行とし、回帰・分類向けの型付き学習表を出力
 - [x] 出典・項目定義・目的変数・欠損・定数列候補を別シートに出力
+
+- [x] 簡単出力を全階層・全属性・繰り返し対応の縦持ち／横持ちから選択可能に変更
+- [x] 横持ちのExcel列上限分割・長い値の継続列／行・項目一覧による完全パス保存
